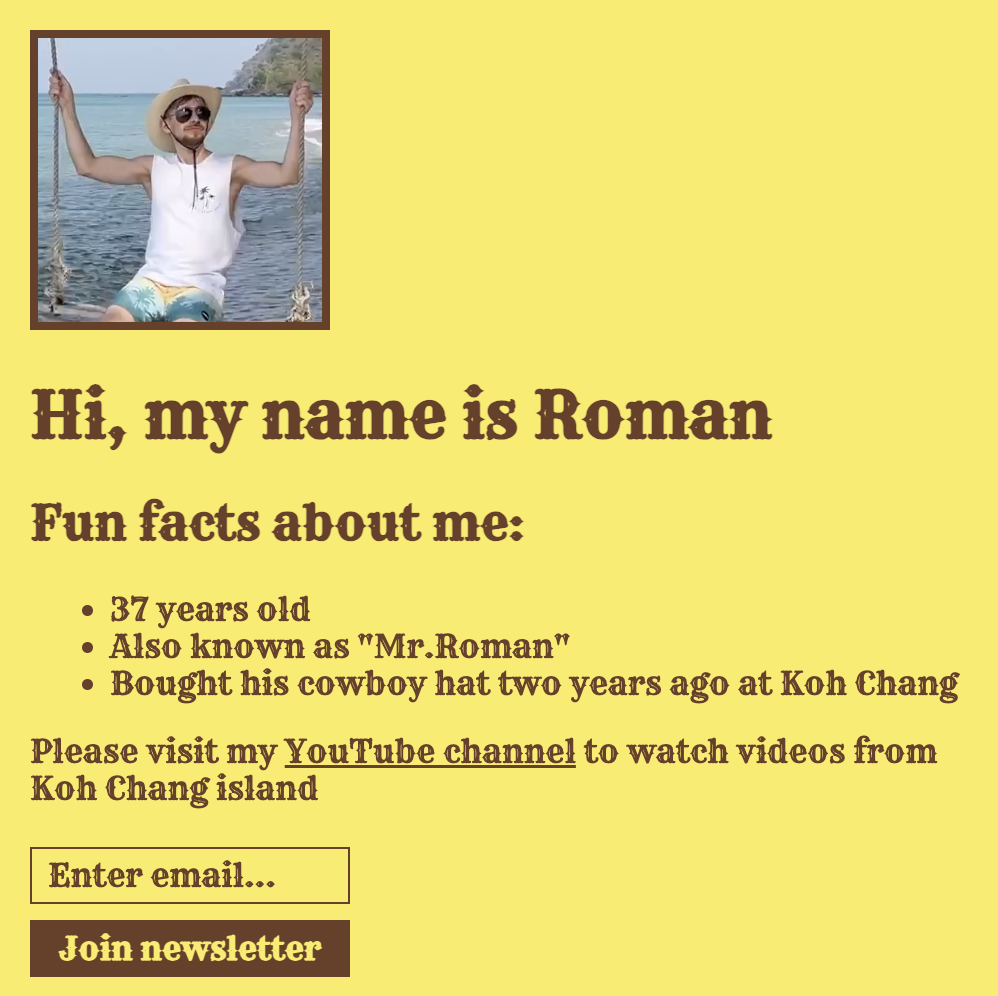
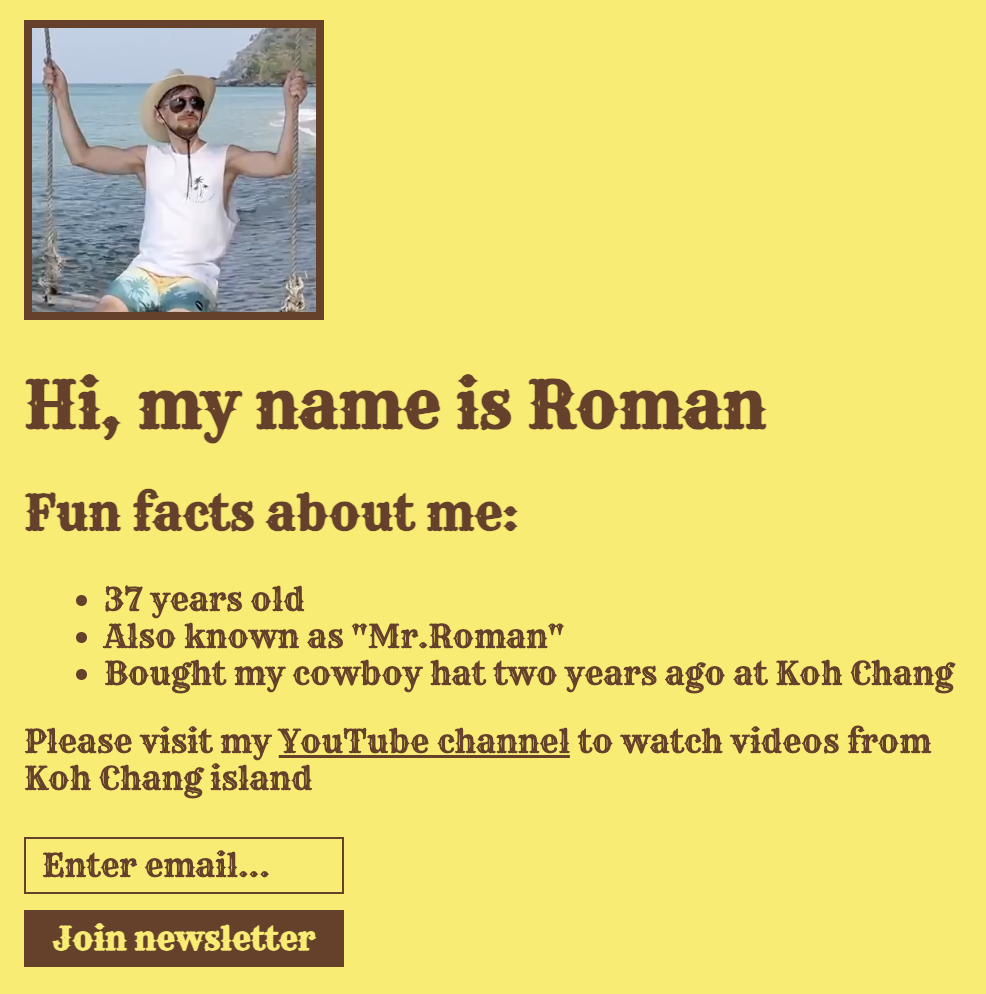
fix

diff --git a/index.html b/index.html
@@ -16,7 +16,7 @@
         <ul>
             <li>37 years old</li>
             <li>Also known as "Mr.Roman"</li>
-            <li>Bought his cowboy hat two years ago at Koh Chang</li>
+            <li>Bought my cowboy hat two years ago at Koh Chang</li>
         </ul>
         <p>Please visit my <a href="https://youtu.be/V2sAnRyxDhQ?si=D9WlKHGrEF86BDHM" target="_blank">YouTube channel</a> to watch videos from Koh Chang island</p>
         <input type="text" placeholder="Enter email..." targer = "_blank">
